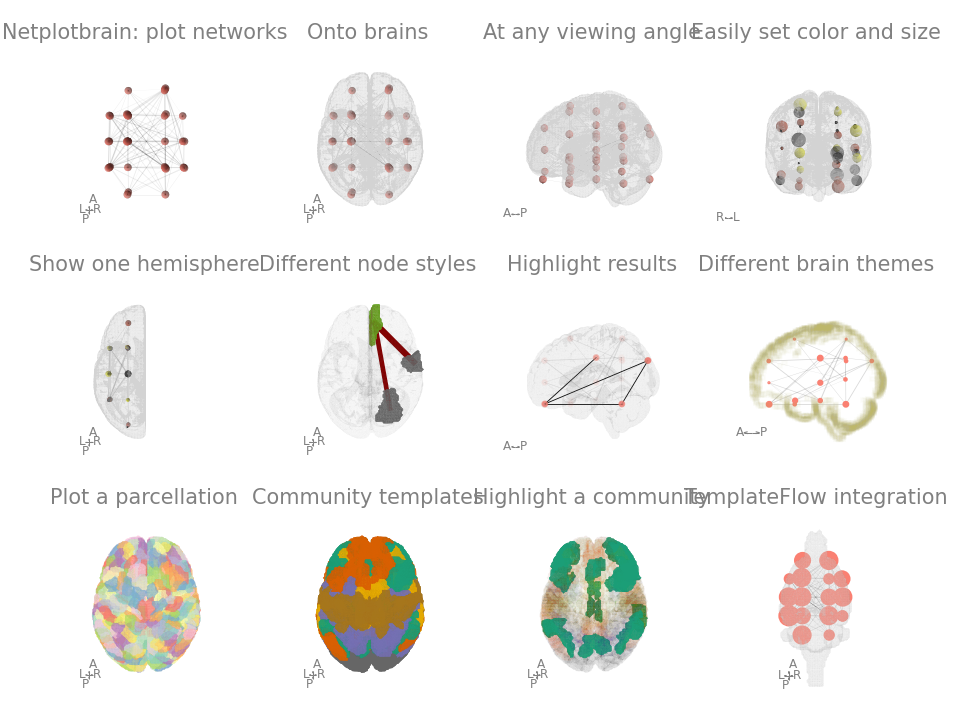
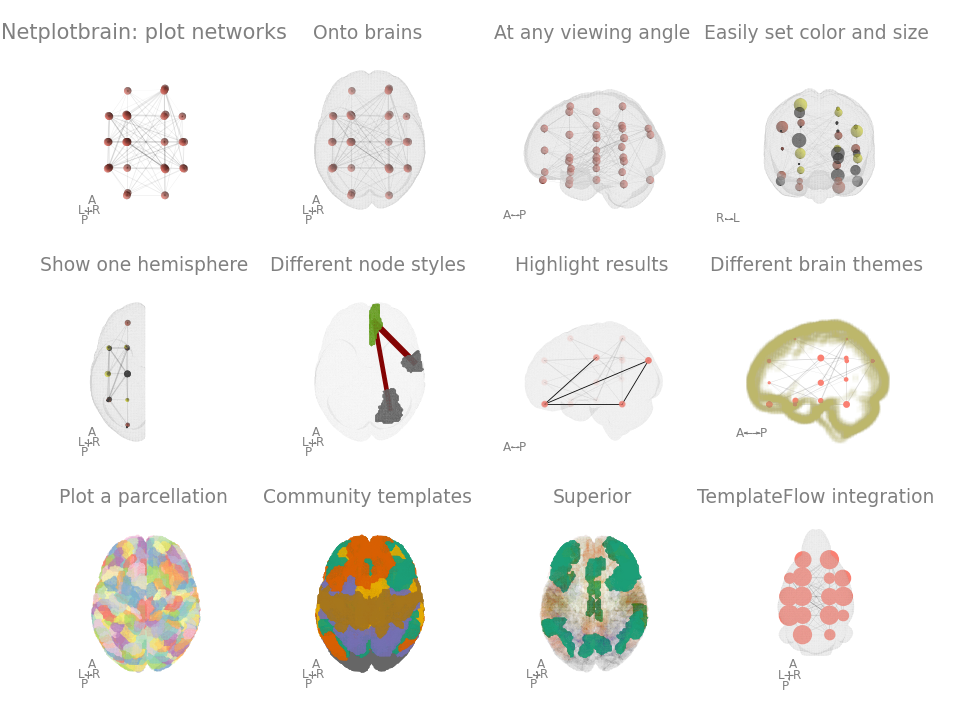
showcase update

diff --git a/examples/showcase_image.py b/examples/showcase_image.py
@@ -21,9 +21,10 @@ netplotbrain.plot(nodes=nodes,
                   nodetype='spheres',
                   nodealpha=0.5,
                   nodecolor='Salmon',
-                  title='Netplotbrain: plot networks',
+                  subtitles='Netplotbrain: plot networks',
                   edgeweights='weight',
                   edgealpha=0.5,
+                  ssubtitlefontsize=9,
                   fig=fig, ax=ax)
 
 ax = fig.add_subplot(342, projection='3d')
@@ -36,8 +37,9 @@ netplotbrain.plot(nodes=nodes,
                   nodetype='spheres',
                   nodealpha=0.5,
                   nodecolor='Salmon',
-                  title='Onto brains',
+                  subtitles='Onto brains',
                   fig=fig, ax=ax,
+                  subtitlefontsize=9,
                   edgewidthscale=0.5)
 
 
@@ -51,8 +53,9 @@ netplotbrain.plot(nodes=nodes,
                   nodetype='spheres',
                   nodealpha=0.5,
                   nodecolor='Salmon',
-                  title='At any viewing angle',
+                  subtitles='At any viewing angle',
                   fig=fig, ax=ax,
+                  subtitlefontsize=9,
                   edgewidthscale=0.5)
 
 
@@ -67,8 +70,9 @@ netplotbrain.plot(nodes=nodes,
                   nodealpha=0.5,
                   nodecolor='community',
                   nodesize='centrality_measure2',
-                  title='Easily set color and size',
+                  subtitles='Easily set color and size',
                   fig=fig, ax=ax,
+                  subtitlefontsize=9,
                   nodecmap='gnuplot',
                   edgealpha=0.5,
                   edgewidthscale=0.5,
@@ -86,11 +90,12 @@ netplotbrain.plot(template='MNI152NLin2009cAsym',
                   hemisphere='R',
                   nodesize='centrality_measure1',
                   edges=edges,
-                  templatevoxsize=2,
+                  templatevoxelsize=2,
                   templatealpha=0.025,
                   templatecolor='darkkhaki',
-                  title='Different brain themes',
+                  subtitles='Different brain themes',
                   fig=fig, ax=ax,
+                  subtitlefontsize=9,
                   nodecolorlegend=False,
                   nodesizelegend=False,)
 
@@ -106,8 +111,9 @@ netplotbrain.plot(nodes=nodes,
                   nodealpha=0.5,
                   nodecolor='community',
                   nodesize='centrality_measure2',
-                  title='Show one hemisphere',
+                  subtitles='Show one hemisphere',
                   fig=fig, ax=ax,
+                  subtitlefontsize=9,
                   nodecmap='gnuplot',
                   nodecolorlegend=False,
                   nodesizelegend=False,)
@@ -134,11 +140,12 @@ netplotbrain.plot(template='MNI152NLin2009cAsym',
                   edges=edgedf,
                   nodes_df=nodes_seed,
                   templatealpha=0.03,
-                  title='Different node styles',
+                  subtitles='Different node styles',
                   templatecolor='gray',
                   highlightnodes=[60, 95, 51],
                   highlightlevel=1,
                   fig=fig, ax=ax,
+                  subtitlefontsize=9,
                   edgewidthscale=3,
                   nodecolor='seed_roi',
                   edgecolor='darkred',
@@ -156,11 +163,12 @@ netplotbrain.plot(template='MNI152NLin2009cAsym',
                   nodescale=5,
                   edges='./examples/example_edges.tsv',
                   templatealpha=0.05,
-                  title='Highlight results',
+                  subtitles='Highlight results',
                   templatecolor='gray',
                   highlightlevel=0.9,
                   highlightnodes=[6, 8, 25, 29],
                   fig=fig, ax=ax,
+                  subtitlefontsize=9,
                   nodecolorlegend=False,
                   nodesizelegend=False,)
 
@@ -175,7 +183,8 @@ netplotbrain.plot(nodes={'atlas': 'Schaefer2018',
                   template='MNI152NLin2009cAsym',
                   templatestyle=None,
                   view=['S'],
-                  title='Plot a parcellation',
+                  subtitles='Plot a parcellation',
+                  subtitlefontsize=9,
                   nodetype='parcels',
                   nodealpha=0.5,
                   nodecolor='Set3',
@@ -205,7 +214,8 @@ netplotbrain.plot(nodes_df=atlasinfo,
                   nodecmap='Dark2',
                   nodecolor='yeo7networks',
                   fig=fig, ax=ax,
-                  title='Community templates',
+                  subtitlefontsize=9,
+                  subtitles='Community templates',
                   nodecolorlegend=False,
                   nodesizelegend=False,)
 
@@ -222,10 +232,11 @@ netplotbrain.plot(nodes_df=atlasinfo,
                   nodecmap='Dark2',
                   nodecolor='yeo7networks',
                   nodealpha = 0.8,
-                  title = 'Highlight a community',
+                  subtitle = 'Highlight a community',
                   highlightnodes={'yeo7networks': 'Cont'},
                   highlightlevel=0.95,
                   fig=fig, ax=ax,
+                  subtitlefontsize=9,
                   nodecolorlegend=False,
                   nodesizelegend=False)
 
@@ -240,11 +251,12 @@ netplotbrain.plot(template='WHS',
                   view='S',
                   nodes=nodes_whs,
                   nodesize='centrality_measure1',
-                  title='TemplateFlow integration',
+                  subtitles='TemplateFlow integration',
                   edges=edges,
                   nodescale=80,
-                  templatevoxsize=0.2,
+                  templatevoxelsize=0.2,
                   fig=fig, ax=ax,
+                  subtitlefontsize=9,
                   edgewidthscale=0.5,
                   nodecolorlegend=False,
                   nodesizelegend=False)

diff --git a/README.md b/README.md
@@ -30,98 +30,6 @@ There are three components: (1) the nodes, (2) the edges, (3) the template
 Each component functions independently.
 You do not need to have all of them specified.
 
-## Nodes
-
-There are three ways to specify nodes.
-
-1. a pandas dataframe of coordinates (or a string to a csv/tsv file), 
-2. a 3D nifti image where each node has a different value (or a a string to the nifti file), 
-3. a dictionary to grab an atlas from templateflow.
-
-For option 2 and 3, it is also possible to supply a dataframe called nodes_df with additional information about each node. 
-
-### Nodes (Dataframe)
-
-The Pandas dataframe should have (at least) the columns 'x', 'y', and 'z'.
-These columns should be coordinates in the space of the template (e.g. MNI).
-It will look something like this.
-
-| x       | y     | z     |
-| :-------------:  | :----------: | :-----------: |
-|  40     | 50    | 20    |
-| -10     | 40    | 30    |
-
-Other columns can be used to style the node's colour and size.
-These just become other columns in the dataframe.
-
-| x       | y     | z     | communities | degree_centrality |
-| :-------------:  | :----------: | :-----------: | :----------: | :-----------: |
-|  40     | 50    | 20    | 1    | 0.8
-| -10     | 40    | 30    | 1    | 0.4
-
-With this information, you can easily specify colour and size arguments by specifying the column name:
-
-```netplotbrain.plot(..., nodecolor='communities')```
-
-These additional values to specify size and color can be given as a dataframe even
-if you specify your nodes with a nifti image.
-
-### Nodes (Nifti image)
-
-You can also input a 3D nifti image where each node is a unique value.
-This input is either a nibael object or a string to the file. 
-
-### Nodes (Templateflow atlas)
-
-If you specify the key/value pairs of an atlas on templateflow in a dictionary,
-the atlas will be automatically downloaded.
-For example, the following will get the Schaefer2018 atlas.
-
-```python
-nodes={'template': 'MNI152NLin2009cAsym',
-         'atlas': 'Schaefer2018',
-         'desc': '400Parcels7Networks',
-         'resolution': 1}
-```
-
-See templateflow.org for more atlases.
-
-If the template argument is specified in `netplotbrain.plot`,
-then the template argument does not need to be included in the dictionary.
-
-## Edges (dataframe)
-
-Edges as a numpy array (adj matrix) or as a pandas dataframe (edgelist) with the default columns 'i', 'j', and 'weight' (optional). An example:
-
-| j       | j     | weight     |
-| :-------------:  | :----------: | :-----------: |
-|  0     | 1    | 0.8    |
-|  1     | 2    | 0.5    |
-
-`i` and `j` reference the indicies in . You can use the argument `edgecol` to specify different column names.
-
-If numpy array, then the array should be a N x N array (where N is number of nodes).
-
-## Template (nifti or string)
-
-For the template you can supply any nifti file.
-
-You can also provide the template name for any template on templateflow.org.
-The T1w brain mask will then automatically downloaded (if not already present on your computer) and used as the background.
-
-Netplotbrain can render slightly different templates
-
-### Template Styles
-
-There are currently three background styles: "surface", "filled" and "cloudy".
-
-The surface quickly renders a surface from the voxels. Additional arguments can be provided in order to the resolution of the surface.
-
-The filled style plots the template's brain mask as voxels. This can be slightly RAM consuming.
-
-The cloudy style tries to identify the outline of the mask and plots points along the edges. The cloudy style is quick, but the edge detection is run relative to the specified initial view of the plot.
-
-For templates, you can change the voxelsize of the template. Larger voxels means the plot will be generated quicker.
 
 ## Views
 
